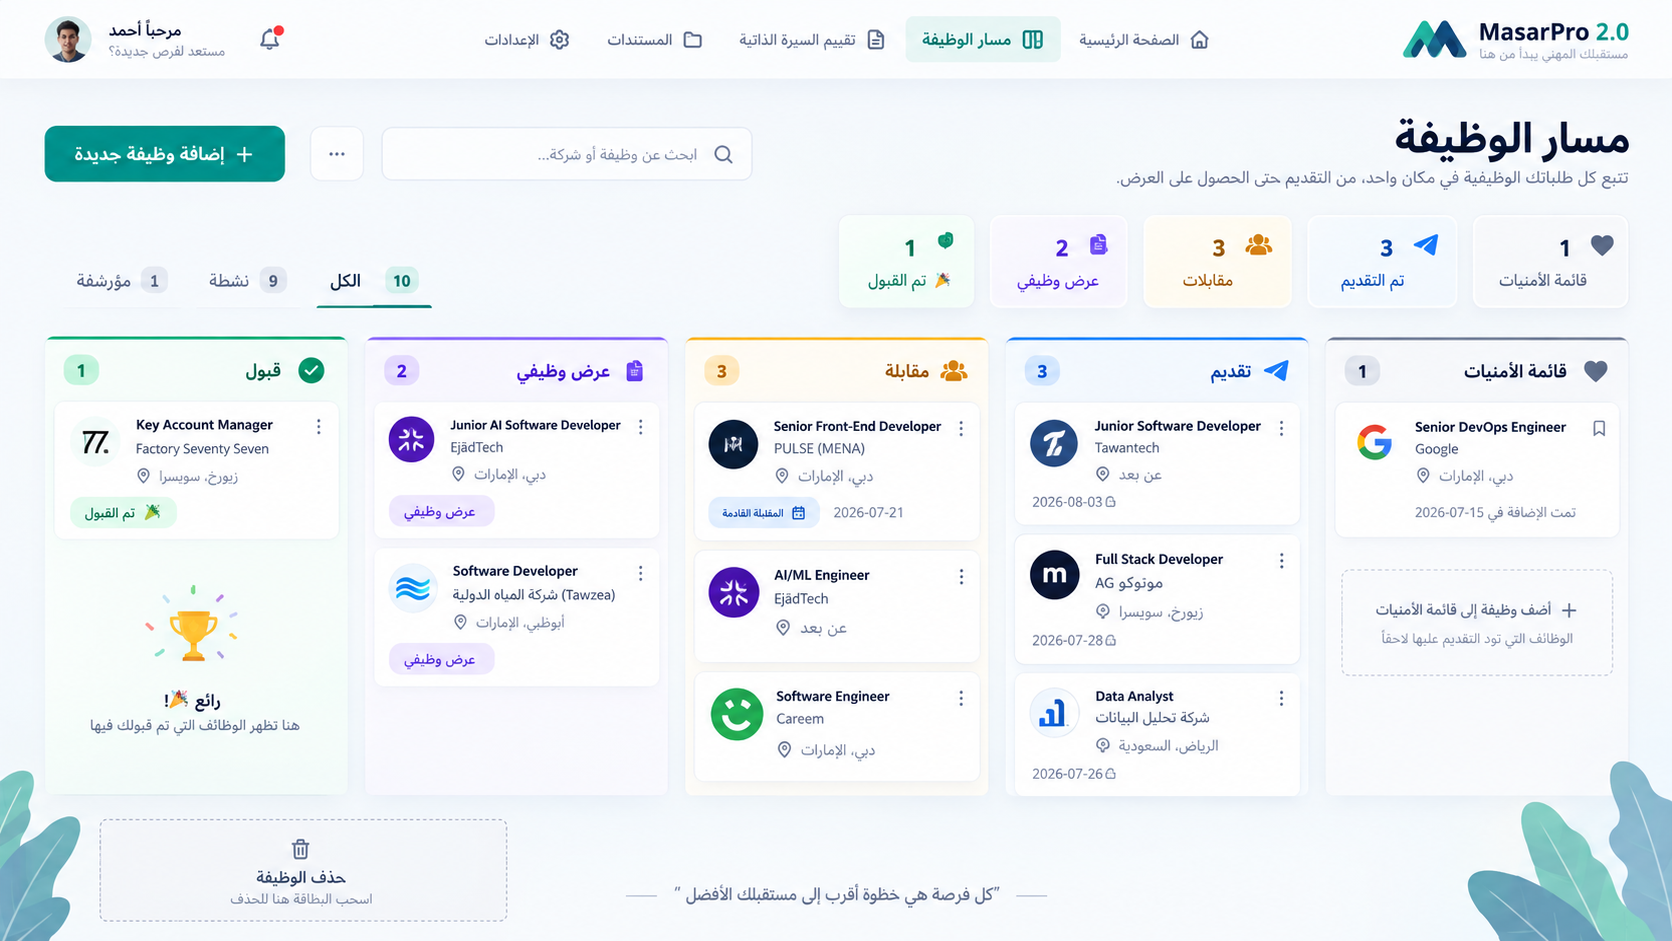
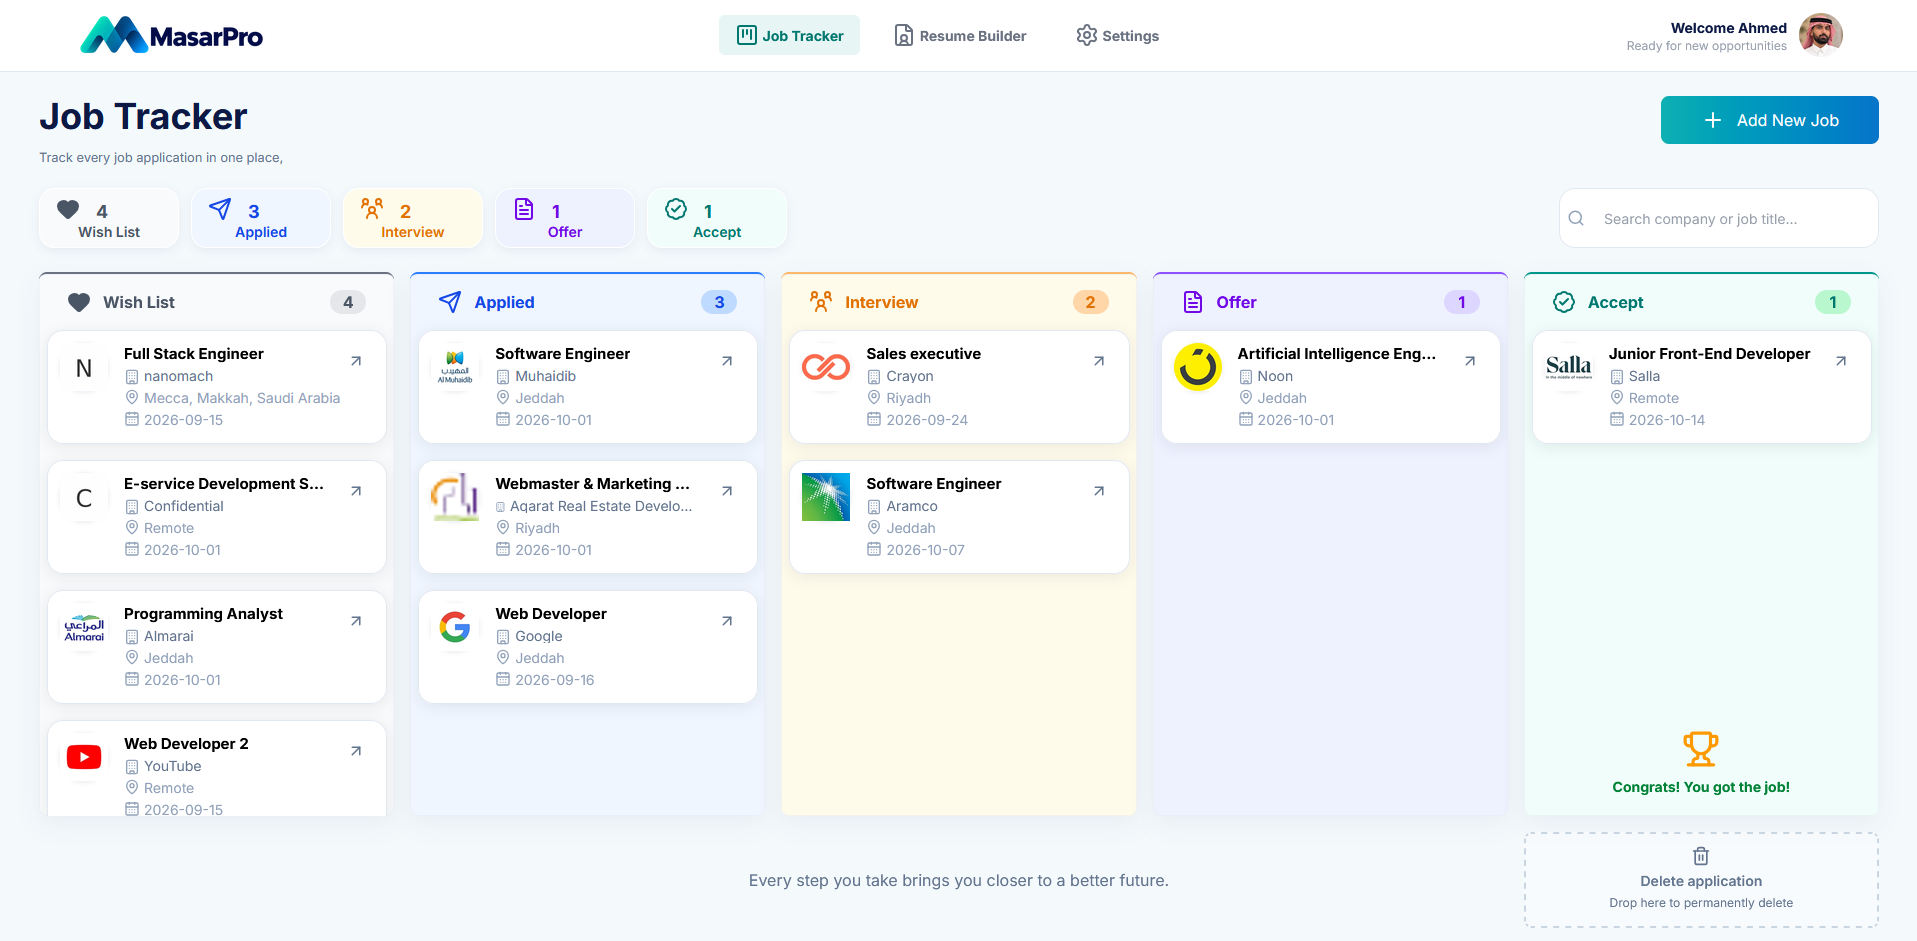
feat: add resume builder preview with image-switching tabs

diff --git a/client/src/components/HeroPreview.jsx b/client/src/components/HeroPreview.jsx
@@ -1,0 +1,42 @@
+import { useRef, useState } from 'react'
+import { FileText, PanelsTopLeft } from 'lucide-react'
+import { useTranslation } from 'react-i18next'
+
+export default function HeroPreview() {
+  const { i18n } = useTranslation()
+  const rtl = i18n.dir() === 'rtl'
+  const [selected, setSelected] = useState(0)
+  const tabs = useRef([])
+  const slides = [
+    { src: '/hero.png', label: rtl ? 'متتبع الوظائف' : 'Job Tracker', Icon: PanelsTopLeft },
+    { src: '/resume-builder.png', label: rtl ? 'منشئ السيرة الذاتية' : 'Resume Builder', Icon: FileText },
+  ]
+  function select(index, focus = false) {
+    const next = (index + slides.length) % slides.length
+    setSelected(next)
+    if (focus) tabs.current[next]?.focus()
+  }
+  return <div className="relative z-5">
+    <div role="tablist" aria-label={rtl ? 'معاينة مزايا مسار برو' : 'MasarPro feature previews'} className="mx-auto  flex w-fit max-w-full gap-1 rounded-2xl border border-sky-100 bg-white/90 p-1.5 shadow-sm shadow-cyan-100">
+      {slides.map(({ label, Icon }, index) => <button
+        key={label} ref={element => { tabs.current[index] = element }}
+        id={`hero-tab-${index}`} type="button" role="tab" aria-selected={selected === index}
+        aria-controls={`hero-panel-${index}`} tabIndex={selected === index ? 0 : -1}
+        onClick={() => select(index)} onKeyDown={event => {
+          if (!['ArrowLeft', 'ArrowRight', 'Home', 'End'].includes(event.key)) return
+          event.preventDefault()
+          select(event.key === 'Home' ? 0 : event.key === 'End' ? slides.length - 1 : selected + (event.key === 'ArrowRight' ? (rtl ? -1 : 1) : (rtl ? 1 : -1)), true)
+        }}
+        className={`inline-flex items-center justify-center gap-2 rounded-xl px-3 py-2.5 text-xs font-semibold transition-colors focus-visible:outline-2 focus-visible:outline-offset-2 focus-visible:outline-teal-600 sm:px-6 sm:text-sm ${selected === index ? 'bg-linear-to-l from-[#0874c9] to-[#0eb0b2] text-white shadow-sm' : 'text-[#344d80] hover:bg-[#e8f7f5] hover:text-[#0b9f91]'}`}>
+        <Icon size={20} aria-hidden="true" />{label}
+      </button>)}
+    </div>
+    <div className="relative">
+      <div className="h-[200px] sm:h-[420px] lg:h-[543px]  rounded-[22px] border-[6px] border-white/80 bg-white shadow-[0_20px_80px_rgba(27,121,171,0.18)] sm:border-[12px]">
+        {slides.map(({ src, label }, index) => <div key={src} id={`hero-panel-${index}`} role="tabpanel" aria-labelledby={`hero-tab-${index}`} hidden={selected !== index} tabIndex={0}>
+          <img src={src} alt={`MasarPro - ${label}`} className="h-full w-full object-contain object-top" />
+        </div>)}
+      </div>
+    </div>
+  </div>
+}

diff --git a/client/src/components/Hero.jsx b/client/src/components/Hero.jsx
@@ -2,6 +2,7 @@ import React, { useState } from "react";
 import { useTranslation } from "react-i18next";
 import { ChevronLeft, ChevronRight, Feather, Languages, Menu, MoveDownLeft, X,} from "lucide-react";
 import { Link, NavLink } from "react-router";
+import HeroPreview from './HeroPreview';
 
 
 
@@ -220,13 +221,7 @@ const Hero = () => {
           </div>
 
           {/* Dashboard image */}
-          <div className="relative z-10 overflow-hidden rounded-t-[22px] border-[12px] border-white/80 bg-white shadow-[0_20px_80px_rgba(27,121,171,0.18)]">
-            <img
-              src="/hero.png"
-              alt="MasarPro Dashboard"
-              className="w-full object-cover object-top"
-            />
-          </div>
+          <HeroPreview />
         </div>
       </div>
     </section>
